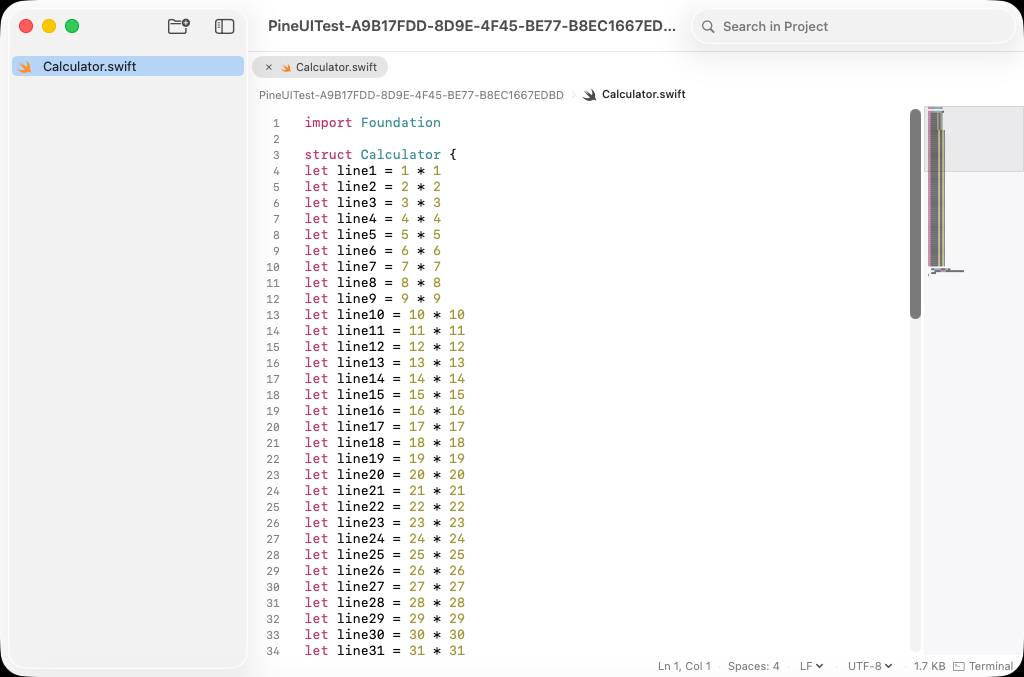
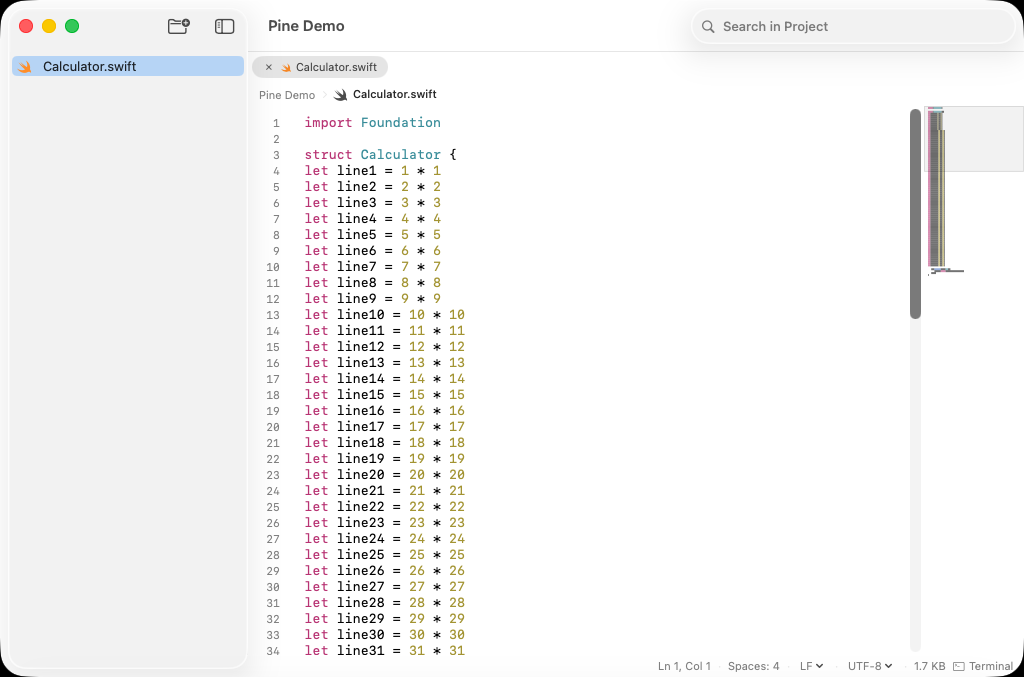
chore: update screenshots (#1201)
* chore: update screenshots

* fix: make terminal screenshots deterministic

---------

Changed region(s): [[0.2812, 0.1241, 0.6875, 0.1551], [0.2812, 0.031, 0.6562, 0.062]]

diff --git a/PineUITests/ScreenshotTests.swift b/PineUITests/ScreenshotTests.swift
@@ -140,6 +140,11 @@ final class ScreenshotTests: PineUITestCase {
             atomically: true,
             encoding: .utf8
         )
+        // GitHub's macOS runner account still defaults to bash, which ignores
+        // ZDOTDIR and exposes its generated hostname in the prompt. Override
+        // the persisted shell for this launch so every capture uses the
+        // deterministic zsh fixture above on local machines and CI alike.
+        app.launchArguments += ["-terminalShellPath", "/bin/zsh"]
         app.launchEnvironment["ZDOTDIR"] = configURL.path
     }
 
